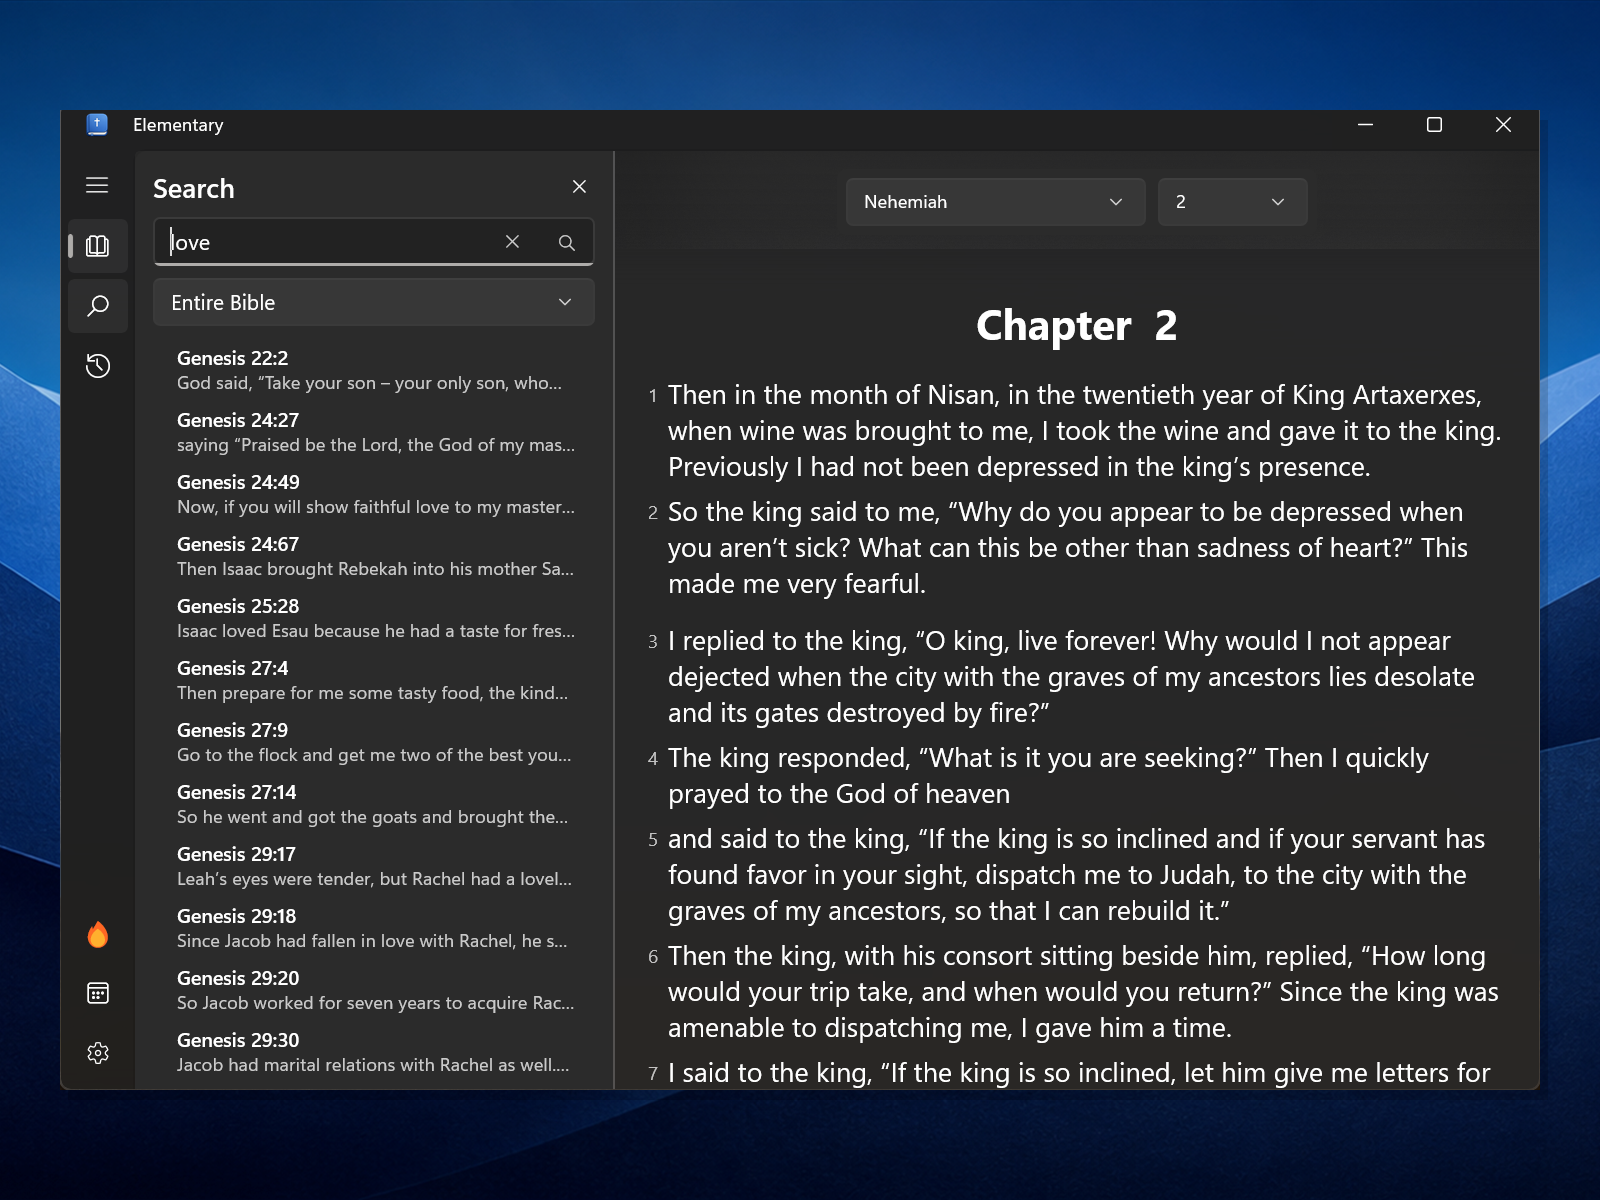
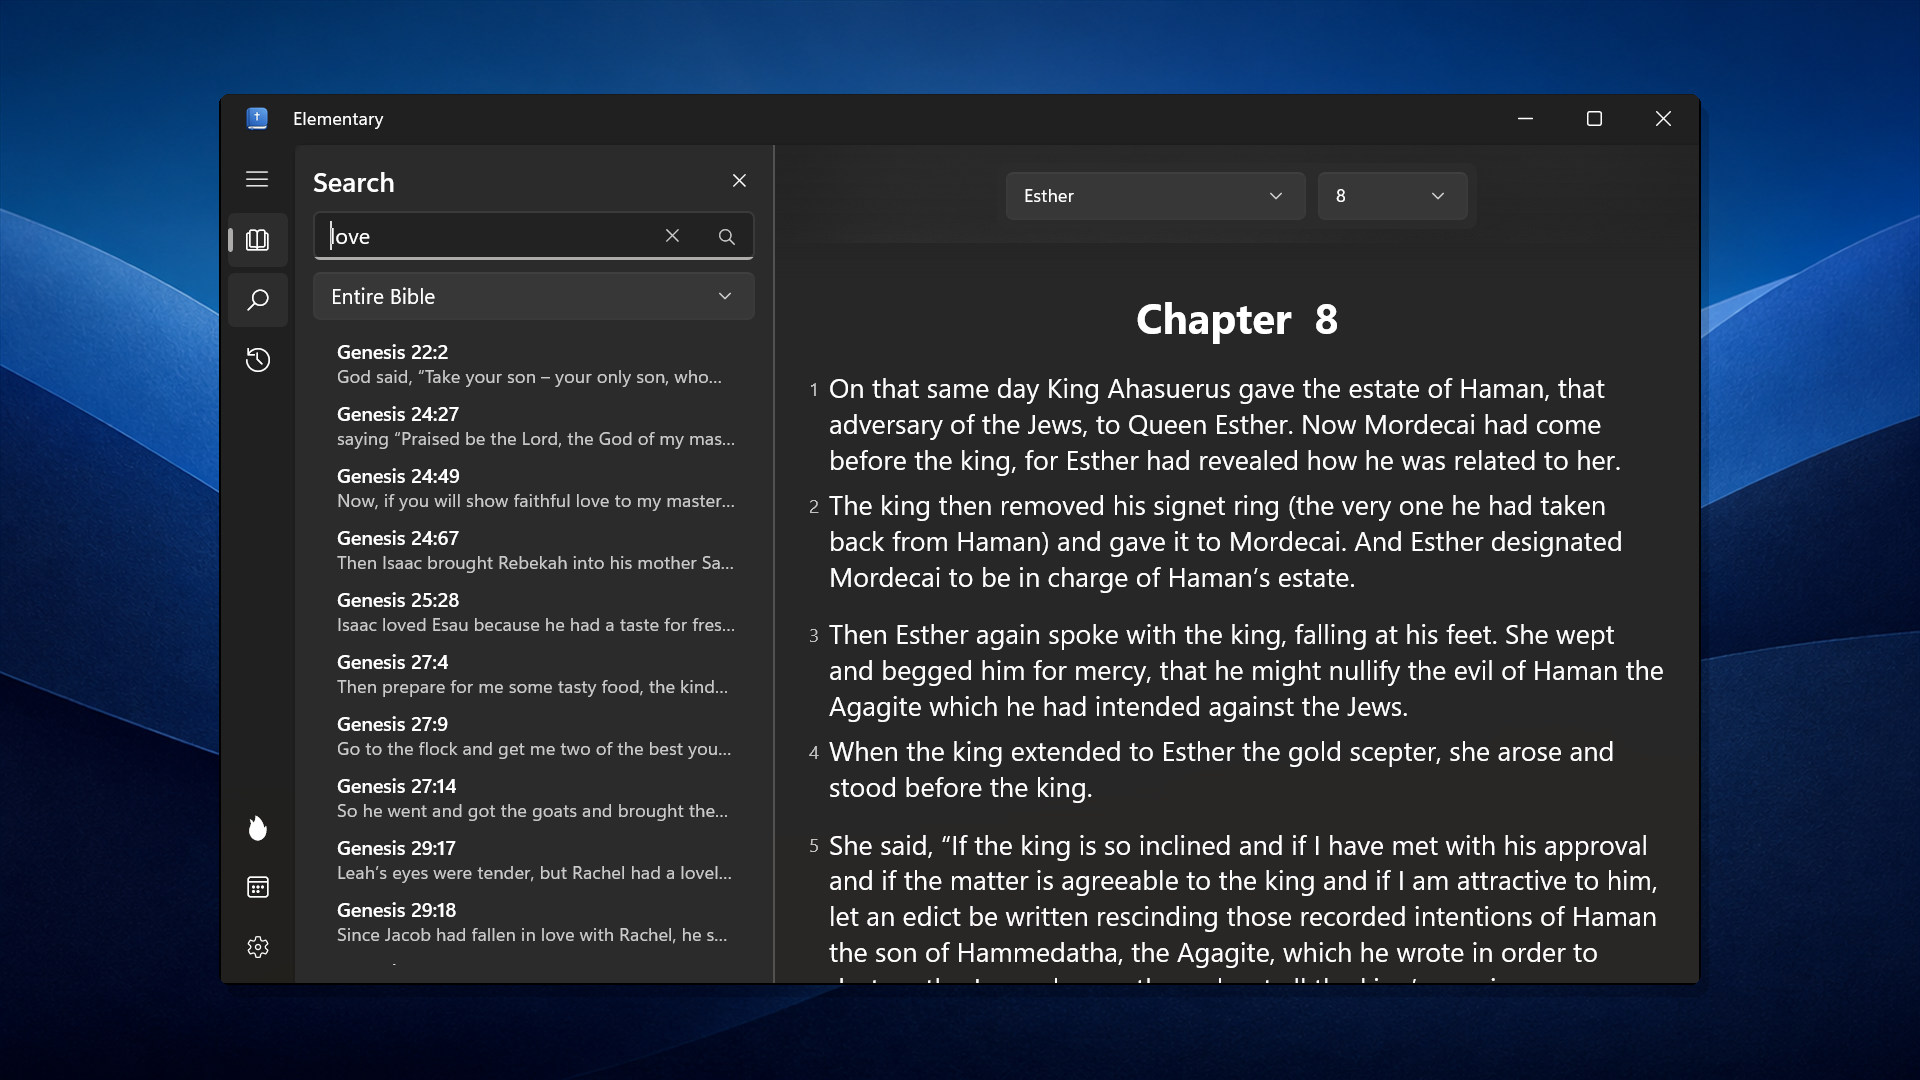
1.0.1 work

Changed region(s): [[0.0, 0.0611, 1.0, 0.9167], [0.5312, 0.1528, 0.5938, 0.1833], [0.375, 0.1528, 0.4062, 0.1833]]

diff --git a/src/Elementary.WidgetApp/Program.cs b/src/Elementary.WidgetApp/Program.cs
@@ -19,7 +19,7 @@ namespace Elementary.WidgetApp
             {
                 using var lifetime = new WidgetServerLifetime(TimeSpan.FromSeconds(10));
                 var httpClient = new HttpClient();
-                httpClient.DefaultRequestHeaders.Add("User-Agent", "Elementary-WidgetApp/1.0");
+                httpClient.DefaultRequestHeaders.Add("User-Agent", "Elementary-WidgetApp/1.0.1");
 
                 var cache = new VotdCacheService();
                 var storage = new WinAppSdkVotdStorageService();

diff --git a/src/Elementary.VerseOfTheDay.ConsolePreview/Program.cs b/src/Elementary.VerseOfTheDay.ConsolePreview/Program.cs
@@ -18,7 +18,7 @@ namespace Elementary.VerseOfTheDay.ConsolePreview
             Directory.CreateDirectory(outputDir);
 
             var httpClient = new HttpClient();
-            httpClient.DefaultRequestHeaders.Add("User-Agent", "Elementary-ConsolePreview/1.0");
+            httpClient.DefaultRequestHeaders.Add("User-Agent", "Elementary-ConsolePreview/1.0.1");
 
             var cache = new VotdCacheService();
             var verseFetch = new VerseFetchService(httpClient);

diff --git a/src/Elementary.UWP/Properties/AssemblyInfo.cs b/src/Elementary.UWP/Properties/AssemblyInfo.cs
@@ -24,6 +24,6 @@ using System.Runtime.InteropServices;
 // You can specify all the values or you can default the Build and Revision Numbers 
 // by using the '*' as shown below:
 // [assembly: AssemblyVersion("1.0.*")]
-[assembly: AssemblyVersion("1.0.0.0")]
-[assembly: AssemblyFileVersion("1.0.0.0")]
+[assembly: AssemblyVersion("1.0.1.0")]
+[assembly: AssemblyFileVersion("1.0.1.0")]
 [assembly: ComVisible(false)]

diff --git a/src/Elementary.Tests.UWP/Properties/AssemblyInfo.cs b/src/Elementary.Tests.UWP/Properties/AssemblyInfo.cs
@@ -12,6 +12,6 @@ using System.Runtime.InteropServices;
 [assembly: AssemblyCulture("")]
 [assembly: AssemblyMetadata("TargetPlatform","UAP")]
 
-[assembly: AssemblyVersion("1.0.0.0")]
-[assembly: AssemblyFileVersion("1.0.0.0")]
+[assembly: AssemblyVersion("1.0.1.0")]
+[assembly: AssemblyFileVersion("1.0.1.0")]
 [assembly: ComVisible(false)]

diff --git a/store-assets/README.md b/store-assets/README.md
@@ -2,17 +2,17 @@
 
 ## Ready-to-upload files
 
-- `gallery/01-reader.png` — 1600×1200
-- `gallery/02-search.png` — 1600×1200
-- `gallery/03-reading-history.png` — 1600×1200
-- `gallery/04-reading-streak.png` — 1600×1200
-- `gallery/05-settings.png` — 1600×1200
+- `gallery/01-reader.png` — 1920×1080
+- `gallery/02-search.png` — 1920×1080
+- `gallery/03-reading-history.png` — 1920×1080
+- `gallery/04-reading-streak.png` — 1920×1080
+- `gallery/05-settings.png` — 1920×1080
 - `icon/app-tile-300x300.png` — 300×300
 - `hero/elementary-super-hero-1920x1080.png` — 1920×1080
 
 The gallery images show direct captures of the running UWP app centered over the matching blue hero artwork. The app UI is unmodified; no marketing copy, extra logos, device frames, simulated UI, taskbar, or desktop clutter were added.
 
-Run `Capture-StoreScreenshots.ps1` while Elementary is running to reproduce the five gallery captures. The script centers the live app window in the primary display's working area, navigates the real app using Windows UI Automation, trims the transparent Windows shadow that can reveal the desktop, composites the capture over the hero artwork, and writes upload-ready 1600×1200 PNG files.
+Run `Capture-StoreScreenshots.ps1` while Elementary is running to reproduce the five gallery captures. The script centers the live app window in the primary display's working area, navigates the real app using Windows UI Automation, preserves the complete rounded frame, composites the capture over the hero artwork, and writes upload-ready 1920×1080 PNG files.
 
 The 300×300 tile is copied from the current UWP `Square150x150Logo.scale-200.png` asset and retains its transparent background.
 

diff --git a/README.md b/README.md
@@ -10,7 +10,7 @@
   <p>A calm, focused Bible reader built for Windows.</p>
 
   <p>
-    <a href="https://github.com/EzraWard/Elementary/releases"><img src="https://img.shields.io/badge/version-1.0.0-2563eb?style=for-the-badge" alt="Version 1.0.0"></a>
+    <a href="https://github.com/EzraWard/Elementary/releases"><img src="https://img.shields.io/badge/version-1.0.1-2563eb?style=for-the-badge" alt="Version 1.0.1"></a>
     <a href="https://github.com/EzraWard/Elementary/stargazers"><img src="https://img.shields.io/github/stars/EzraWard/Elementary.svg?style=for-the-badge" alt="GitHub stars"></a>
     <a href="https://github.com/EzraWard/Elementary/issues"><img src="https://img.shields.io/github/issues/EzraWard/Elementary.svg?style=for-the-badge" alt="Open issues"></a>
     <a href="LICENSE.txt"><img src="https://img.shields.io/github/license/EzraWard/Elementary.svg?style=for-the-badge" alt="MIT License"></a>
@@ -33,7 +33,7 @@
 
 Elementary is a distraction-free Bible reader for Windows. It opens directly to Scripture, works without an account, and keeps reading position, history, preferences, and streak progress on the device.
 
-Version 1.0.0 brings together offline translations, continuous reading across chapters and books, full-Bible search, reading history, reading streaks and badges, flexible typography, theme controls, and a refreshed Windows visual identity.
+Version 1.0.1 brings together offline translations, continuous reading across chapters and books, full-Bible search, reading history, reading streaks and badges, flexible typography, theme controls, and a refreshed Windows visual identity.
 
 ## Features
 

diff --git a/store-assets/STORE-LISTING.md b/store-assets/STORE-LISTING.md
@@ -63,7 +63,7 @@ Leave this field blank for the first Store submission. For the first update afte
 
 ## Screenshot order and captions
 
-All screenshots use unmodified captures of the running app, centered on the matching blue hero artwork at 1600×1200. The taskbar and desktop clutter are excluded, and the app UI contains no added logos or marketing overlays.
+All screenshots use unmodified captures of the running app, centered on the matching blue hero artwork at 1920×1080. The complete app frame and rounded corners are preserved; the taskbar and desktop clutter are excluded, and the app UI contains no added logos or marketing overlays.
 
 1. `gallery/01-reader.png`
    Read offline in a focused, distraction-free view designed for comfortable time in Scripture.
